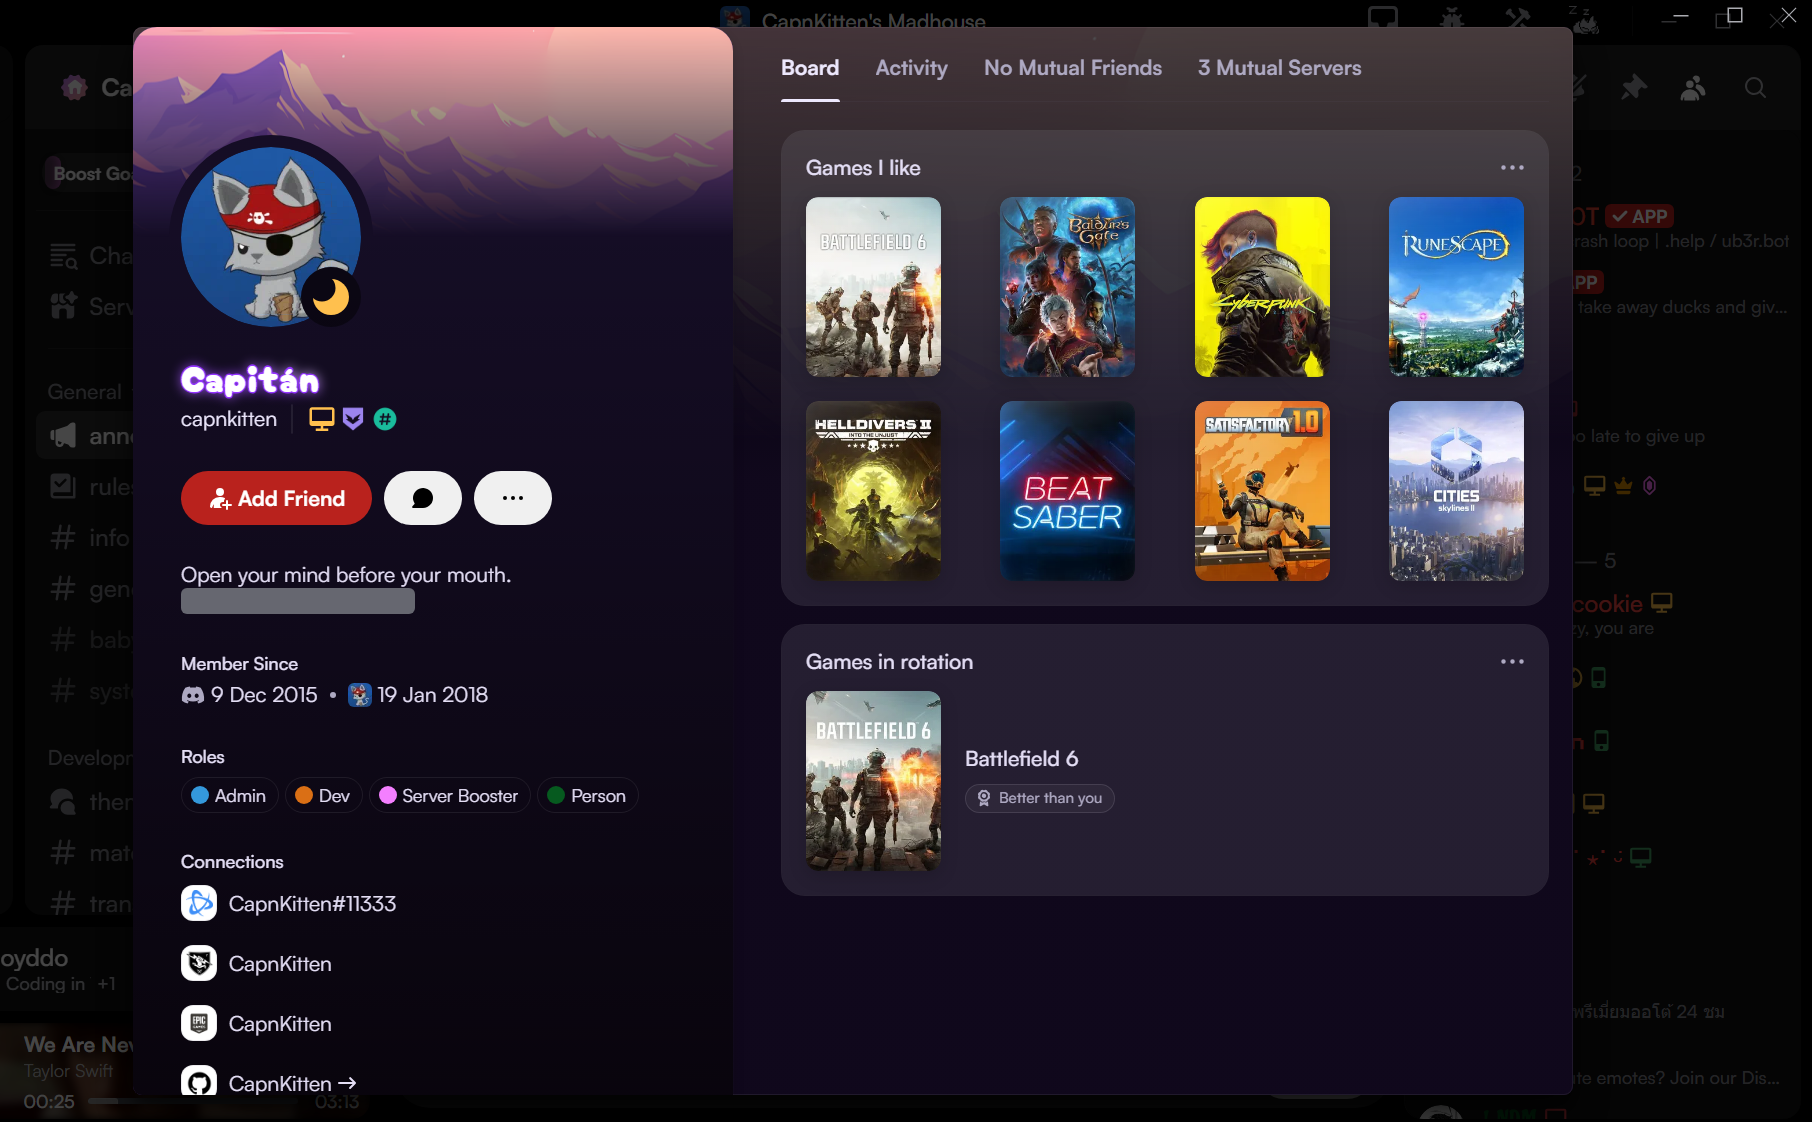
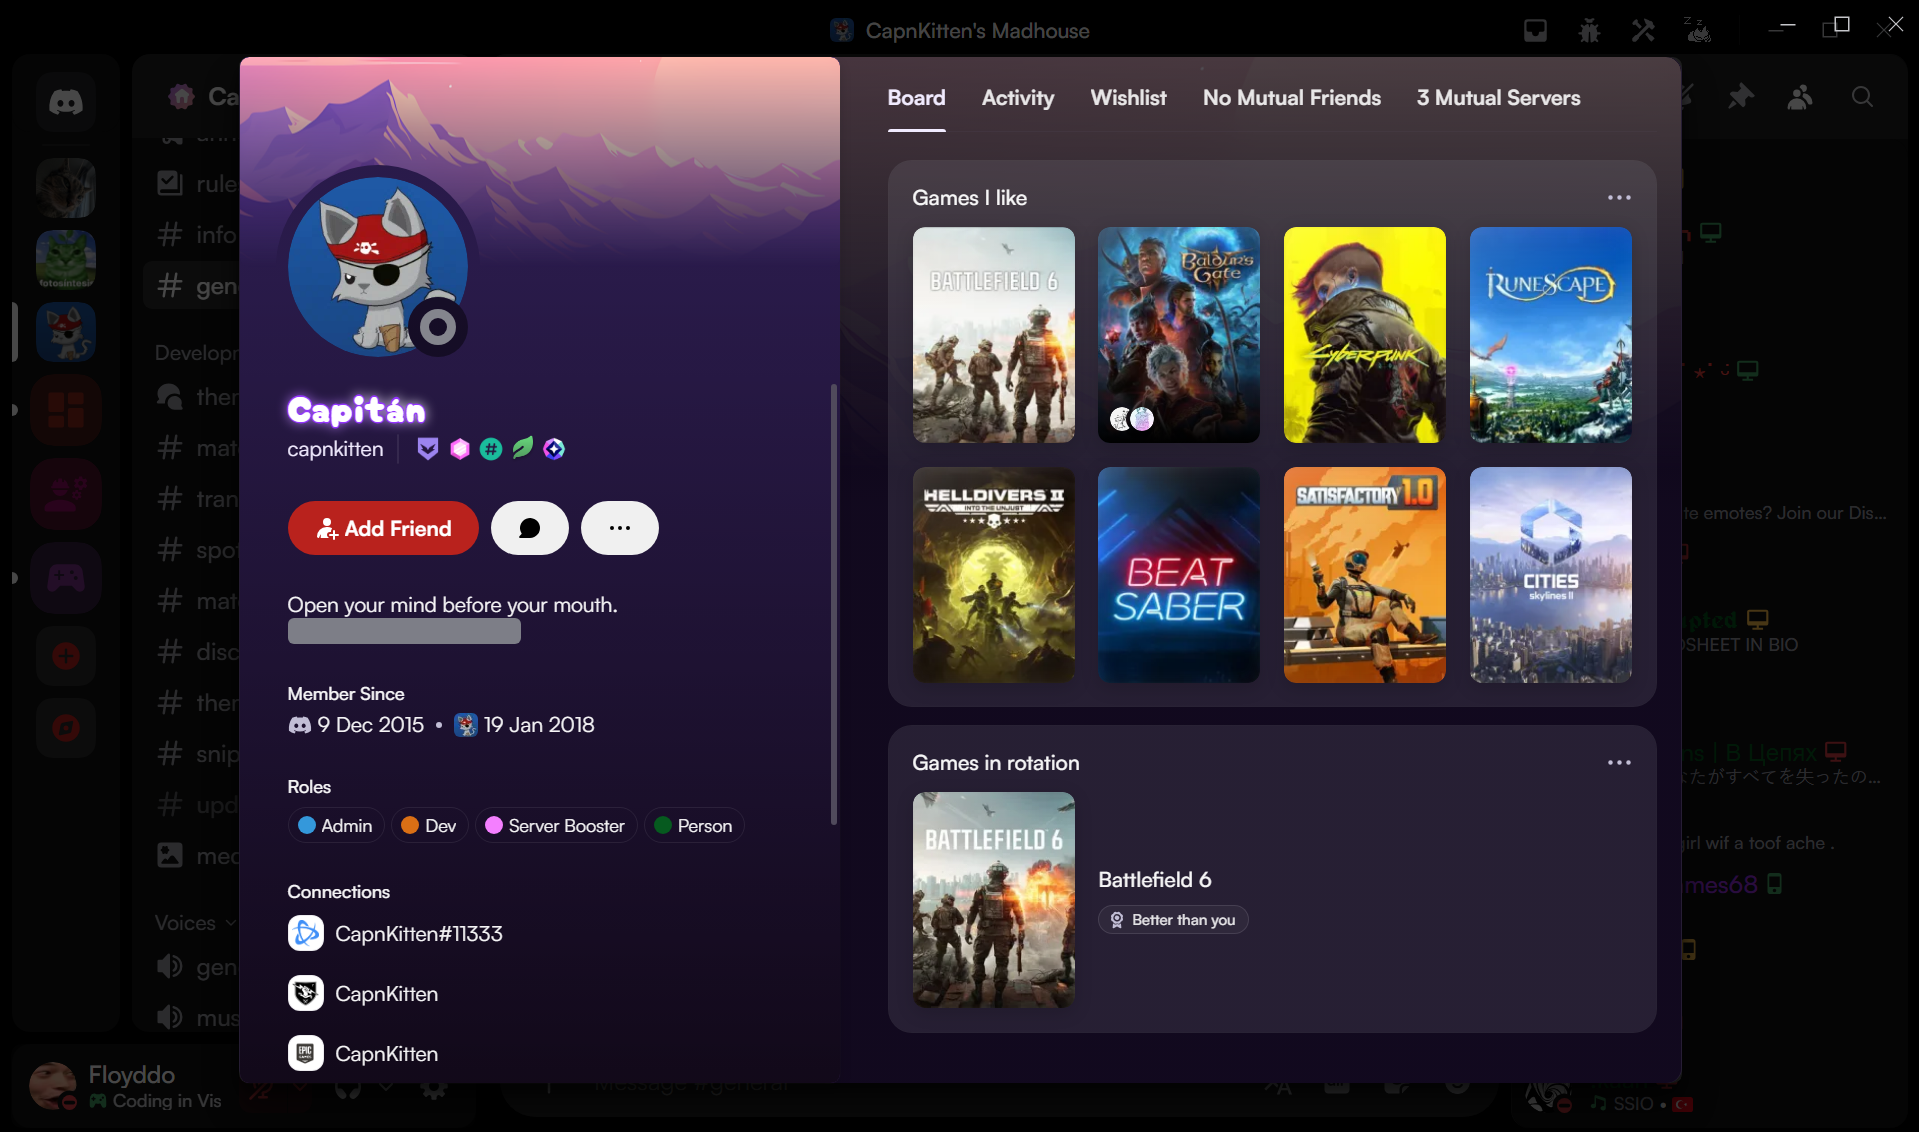
Fix: settings position, comments, pic

diff --git a/Spotify-Discord.theme.scss b/Spotify-Discord.theme.scss
@@ -275,8 +275,8 @@ filter: blur(3px);
 }
 
 /* textarea buttons */
- #{ $channelTextAreaButtonsContainer }>  #{ $channelTextAreaButton}#{ $channelTextAreaButtonInner}, // OLD nitro gift button in text area
- .container_c0c49a, /* Requires manual updating: new nitro gift button in text area, may break with updates */
+ #{ $channelTextAreaButtonsContainer }>  #{ $channelTextAreaButton}#{ $channelTextAreaButtonInner}, // Current nitro gift button in text area
+ .container_c0c49a, /* Requires manual updating: A/B nitro gift button in text area, may break with updates */
 #{ $channelAppLauncherButtonContainer} {
   display: none;
 }
@@ -549,7 +549,7 @@ filter: blur(3px);
 }
 
 /* profile fixes: fullscreen, border etc */
-#{$popoutLayerAlt } > div > div { /* fullscreen profile popout layout */
+#{$popoutLayerAlt } > div > div:has(>div>div>#{$userProfileOuter}) { /* fullscreen profile popout layout */
     height: 90vh;
     border-radius: var(--card-radius) !important;
 }
@@ -557,7 +557,7 @@ filter: blur(3px);
   display: none;
 }
 
-#{$popoutLayerAlt }:has(#{$userProfileOuter}) > div > div > div, #{$popoutLayerAlt}:has(#{$userProfileInner}) > div > div> div >div,  #{$popoutLayerAlt} #{$userProfileOuter}{
+#{$popoutLayerAlt } > div > div > div:has(#{$userProfileOuter}), #{$popoutLayerAlt}:has(#{$userProfileInner}) > div > div> div >div,  #{$popoutLayerAlt} #{$userProfileOuter}{
   height: 100%;
 }
 

diff --git a/Spotify-Discord.theme.min.css b/Spotify-Discord.theme.min.css
@@ -417,7 +417,7 @@ li > div:has(a[href="/quest-home"]) {
 }
 
 /* profile fixes: fullscreen, border etc */
-.layer_bc663c > div > div { /* fullscreen profile popout layout */
+.layer_bc663c > div > div:has(> div > div > .outer_c0bea0) { /* fullscreen profile popout layout */
   height: 90vh;
   border-radius: var(--card-radius) !important;
 }
@@ -426,7 +426,7 @@ li > div:has(a[href="/quest-home"]) {
   display: none;
 }
 
-.layer_bc663c:has(.outer_c0bea0) > div > div > div, .layer_bc663c:has(.inner_c0bea0) > div > div > div > div, .layer_bc663c .outer_c0bea0 {
+.layer_bc663c > div > div > div:has(.outer_c0bea0), .layer_bc663c:has(.inner_c0bea0) > div > div > div > div, .layer_bc663c .outer_c0bea0 {
   height: 100%;
 }
 
